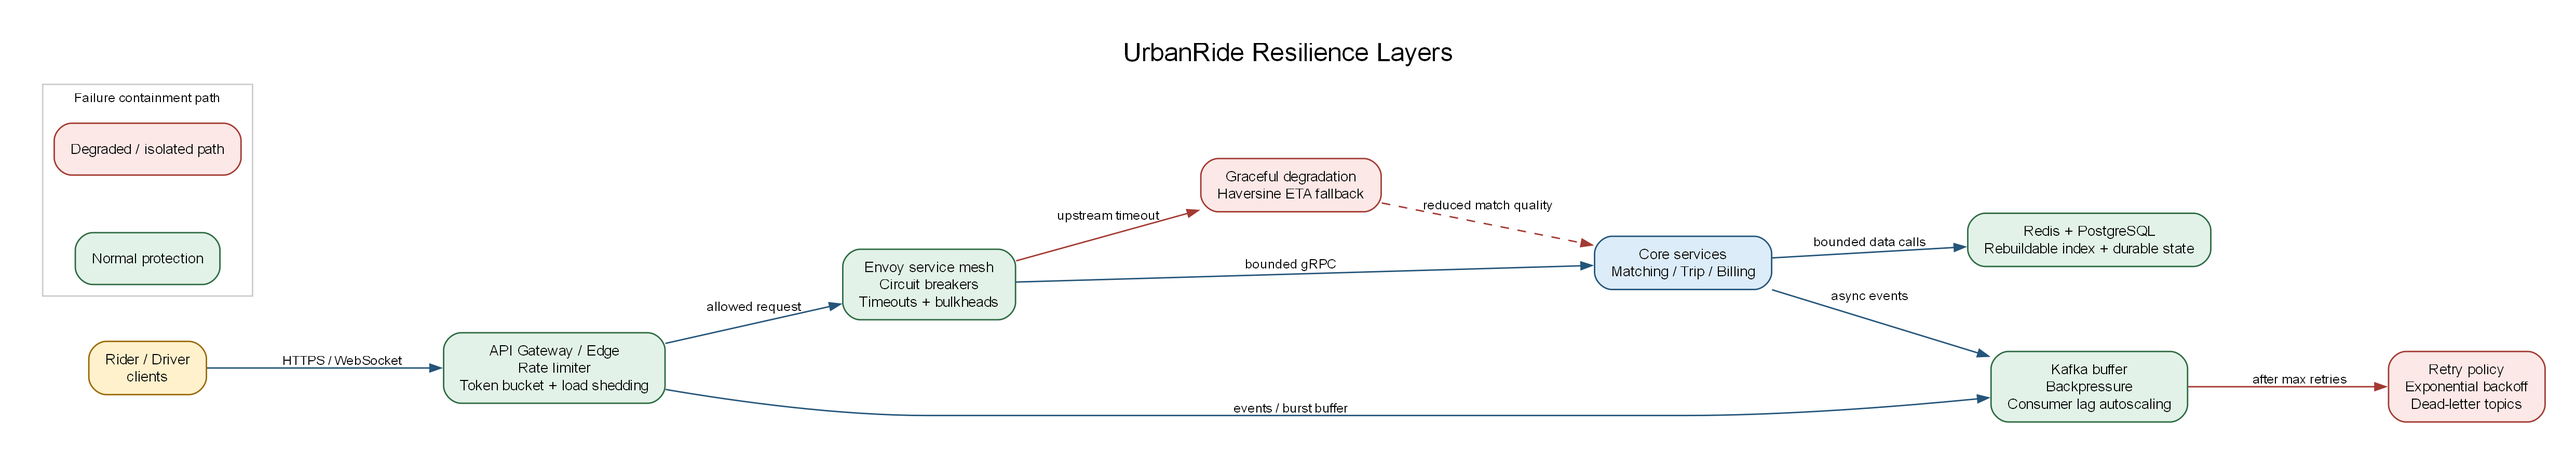
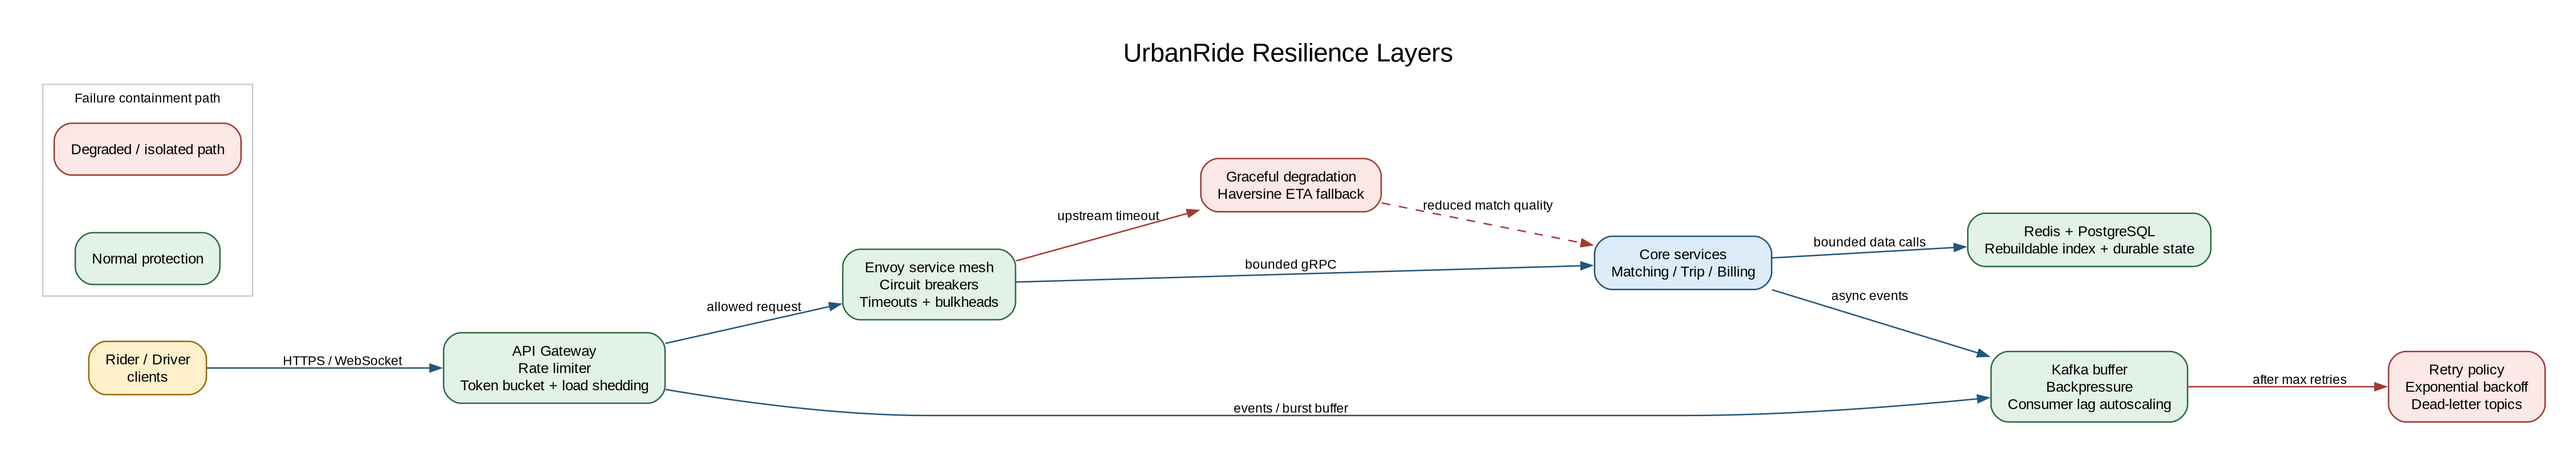
M1 consistency pass: render missing diagrams, enforce canonical names, fix SMS contradiction, draft references

diff --git a/add/06-data-design.md b/add/06-data-design.md
@@ -21,7 +21,7 @@
 <!-- Which services are CP, which are AP, and why.
      Cite Uber precedent: Ringpop is AP; surge favours freshness over consistency. -->
 
-Storage is selected per bounded context rather than imposed uniformly. Trip Management and Billing are CP: they prefer a clear failure during a partition to two conflicting authoritative records or a double charge. Location Ingestion and candidate matching are AP: a slightly stale driver position is acceptable because the next GPS ping arrives within 4 seconds, while refusing all matching during a brief inconsistency would harm availability. Surge Pricing also favours AP because freshness is more useful than a perfectly consistent multiplier. This follows Uber's documented precedent: Ringpop is AP, and surge pricing explicitly favours freshness and availability over consistency.
+Storage is selected per bounded context rather than imposed uniformly. Trip Management Service and Billing Service are CP: they prefer a clear failure during a partition to two conflicting authoritative records or a double charge. Location Ingestion Service and candidate matching are AP: a slightly stale driver position is acceptable because the next GPS ping arrives within 4 seconds, while refusing all matching during a brief inconsistency would harm availability. Surge Pricing Service also favours AP because freshness is more useful than a perfectly consistent multiplier. This follows Uber's documented precedent: Ringpop is AP, and surge pricing explicitly favours freshness and availability over consistency.
 
 ### 6.3 Storage tiering strategy
 
@@ -49,7 +49,7 @@ Partition-drop is preferable to CDC for archival because completed trips are imm
      hybrid choice; booking saga steps + compensations; pivot transaction;
      idempotency on trip_uuid -->
 
-Each service owns its database, so one ACID transaction cannot cover a booking. We use orchestration for the booking Saga because Trip Management must expose the current state and coordinate real compensations. Downstream reactions such as analytics, receipts, and driver earnings are choreographed from `TripCompleted` events. Every participant is idempotent and uses `trip_uuid` as its idempotency key; retries and duplicate events therefore become no-ops.
+Each service owns its database, so one ACID transaction cannot cover a booking. We use orchestration for the booking Saga because Trip Management Service must expose the current state and coordinate real compensations. Downstream reactions such as analytics, receipts, and driver earnings are choreographed from `TripCompleted` events. Every participant is idempotent and uses `trip_uuid` as its idempotency key; retries and duplicate events therefore become no-ops.
 
 | # | Step | Service | Compensation on failure |
 |---|---|---|---|
@@ -66,13 +66,13 @@ Step 3 is the pivot transaction. Once authorisation succeeds, the workflow moves
 <!-- Atomic Redis SET NX rather than a DB row lock; loser re-queries.
      This is how lock contention is designed out. -->
 
-The geo-index is only a candidate source, not a reservation system. Assignment uses an atomic Redis compare-and-set: `SET driver:{id}:assignment {trip_uuid} NX EX 30`. Only one simultaneous request wins. The loser discards that candidate, re-queries, and tries the next driver. This removes database row-lock contention from the hot path while Trip Management remains the authoritative record of the ride.
+The geo-index is only a candidate source, not a reservation system. Assignment uses an atomic Redis compare-and-set: `SET driver:{id}:assignment {trip_uuid} NX EX 30`. Only one simultaneous request wins. The loser discards that candidate, re-queries, and tries the next driver. This removes database row-lock contention from the hot path while Trip Management Service remains the authoritative record of the ride.
 
 ### 6.6 Surge quote pinning
 
 <!-- 60-second pinned quote so displayed fare = charged fare -->
 
-Surge is eventually consistent, so the live multiplier may change between fare estimation and confirmation. Fare estimation therefore creates a `quote_id` containing the base fare and multiplier, stores it in Redis with a 60-second TTL, and returns it to the rider. The booking request carries that ID, and Billing charges the pinned multiplier. An expired quote must be re-quoted before confirmation. This gives the rider price certainty while bounding our exposure to adverse surge movement.
+Surge is eventually consistent, so the live multiplier may change between fare estimation and confirmation. Fare estimation therefore creates a `quote_id` containing the base fare and multiplier, stores it in Redis with a 60-second TTL, and returns it to the rider. The booking request carries that ID, and the Billing Service charges the pinned multiplier. An expired quote must be re-quoted before confirmation. This gives the rider price certainty while bounding our exposure to adverse surge movement.
 
 ---
 
@@ -88,7 +88,7 @@ Surge is eventually consistent, so the live multiplier may change between fare e
 
 ![Booking saga with compensations](../diagrams/saga-01-booking.png)
 
-**Figure 6 - Booking Saga and compensating transactions.** Trip Management orchestrates the booking steps; failed reservations or payment authorisation invoke the listed compensations, with payment authorisation marked as the pivot.
+**Figure 6 - Booking Saga and compensating transactions.** Trip Management Service orchestrates the booking steps; failed reservations or payment authorisation invoke the listed compensations, with payment authorisation marked as the pivot.
 
 <!-- DIAGRAM 6 | OWNER: M3 | FILE: diagrams/saga-01-booking.png
      Happy path across services plus compensations on failure.

diff --git a/add/11-references.md b/add/11-references.md
@@ -2,26 +2,81 @@
 
 <!-- OWNER: M5 | SOURCE: Brief §11 -->
 <!-- Use a consistent citation style throughout. -->
+<!-- Drafted by M1 during the consistency pass to unblock assembly.
+     M5: please open each URL and confirm it resolves before submission. -->
 
-**Uber**
+**Uber Engineering**
 
-1. [[ Real-time Data Infrastructure at Uber - arXiv 2104.00087 ]]
-2. [[ H3 geospatial indexing - h3geo.org ]]
-3. [[ How Uber Scales Their Real-time Market Platform - High Scalability ]]
-4. [[ Schemaless / Docstore blog series - uber.com/blog ]]
-5. [[ Cadence workflow orchestration ]]
+1. Fu, Y. and Soman, C. (2021) *Real-time Data Infrastructure at Uber*. arXiv:2104.00087.
+   Available at: https://arxiv.org/abs/2104.00087 — source for the Kafka and Flink architecture,
+   the surge pricing pipeline, the Storm-versus-Flink backpressure recovery comparison, and the
+   documented decision to favour freshness over consistency in surge computation.
+2. Uber Technologies (2018) *H3: A Hexagonal Hierarchical Geospatial Indexing System*.
+   Available at: https://h3geo.org and https://github.com/uber/h3 — source for the resolution
+   table, K-ring expansion, and the equidistant-neighbour property of hexagonal cells.
+3. High Scalability (2015) *How Uber Scales Their Real-time Market Platform*.
+   Available at: https://highscalability.com — source for DISCO dispatch, Ringpop application-layer
+   sharding, the SWIM gossip protocol, and the treatment of driver location as disposable
+   in-memory data.
+4. Uber Engineering *Designing Schemaless* and *Docstore* blog series.
+   Available at: https://www.uber.com/en-GB/blog/engineering/ — source for the 2014 Postgres
+   capacity constraint and the Raft-coordinated leader/follower partition model.
+5. Cadence Workflow (2024) *Cadence: Fault-Tolerant Stateful Code Platform*.
+   Available at: https://github.com/cadence-workflow/cadence — source for durable trip-lifecycle
+   workflows, automatic activity retries, and Saga-style compensation support.
 
-**Grab**
+**Grab Engineering**
 
-6. [[ Pharos: Searching Nearby Drivers on Road Network at Scale ]]
-7. [[ Grab allocation and matching factors ]]
+6. Grab Engineering *Pharos: Searching Nearby Drivers on Road Network at Scale*.
+   Available at: https://engineering.grab.com — source for in-memory K-nearest search by driving
+   distance, OpenStreetMap graph partitioning by city and vehicle type, and the rejection of
+   straight-line nearest-driver matching.
+7. Grab *Inside Grab: How the Allocation System Works*.
+   Available at: https://www.grab.com/inside-grab/ — source for geohash-based candidate
+   generation, ETA-based narrowing, and the 40-plus factors weighed in final allocation.
 
-**Lyft**
+**Lyft / Service Mesh**
 
-8. [[ Lyft's Envoy: Embracing a Service Mesh ]]
+8. Klein, M. (2018) *Lyft's Envoy: Embracing a Service Mesh*. QCon New York.
+   Source for the migration from a PHP monolith to 300-plus microservices, and the observation
+   that retry, circuit-breaking, rate-limiting and timeout logic were incompletely and
+   inconsistently implemented when left to individual services.
+9. Envoy Proxy *Architecture Overview: Outlier Detection and Circuit Breaking*.
+   Available at: https://www.envoyproxy.io/docs — source for the sidecar circuit-breaker and
+   zone-aware load-balancing behaviour described in §7.1.
 
-**Patterns & cost**
+**Patterns**
 
-9. [[ Saga pattern - microservices.io ]]
-10. [[ Google Maps Platform pricing ]]
-11. [[ Spot instance cost benchmarks ]]
+10. Richardson, C. *Pattern: Saga*. microservices.io.
+    Available at: https://microservices.io/patterns/data/saga.html — source for orchestration
+    versus choreography, compensating transactions, and the pivot-transaction concept.
+11. Richardson, C. *Pattern: Database per Service*. microservices.io.
+    Available at: https://microservices.io/patterns/data/database-per-service.html — source for
+    the data-isolation position taken in §4.5.
+
+**Routing & Map Data**
+
+12. Luxen, D. and Vetter, C. *Open Source Routing Machine (OSRM)*.
+    Available at: https://project-osrm.org and https://github.com/Project-OSRM/osrm-backend —
+    source for the `table` (distance-matrix) endpoint used in §5.8 to compute many-to-one ETAs in
+    a single call.
+13. OpenStreetMap Foundation *OpenStreetMap planet and regional extracts*.
+    Available at: https://www.openstreetmap.org and https://download.geofabrik.de — source of the
+    road-network data underlying the self-hosted `Routing Service`.
+
+**Cost & Infrastructure**
+
+14. Google *Google Maps Platform Pricing*.
+    Available at: https://mapsplatform.google.com/pricing/ — source for Routes, Geocoding and
+    Dynamic Maps rates, and for the Route Matrix per-element billing model that produces the
+    ~64 LKR/ride figure in §8.2. Rates as published and checked 13 September 2026.
+15. Amazon Web Services *AWS Pricing — Asia Pacific (Mumbai) ap-south-1*.
+    Available at: https://aws.amazon.com/pricing/ — basis for every instance, storage and egress
+    figure in §8.3. Checked 13 September 2026.
+16. Central Bank of Sri Lanka *Daily Indicative Exchange Rates*.
+    Available at: https://www.cbsl.gov.lk — source for the 328 LKR/USD working rate recorded in
+    §8.1 and Appendix A.
+17. PostgreSQL Global Development Group *PostgreSQL Documentation: Table Partitioning*.
+    Available at: https://www.postgresql.org/docs/current/ddl-partitioning.html — source for the
+    partition-drop archival mechanism in §6.3, and for why `DROP` on a partition is a metadata
+    operation rather than a row-wise delete.

diff --git a/add/05-performance-latency.md b/add/05-performance-latency.md
@@ -92,21 +92,21 @@ This delivers most of the allocation quality of a full road-network spatial inde
 | `trip.events.dlq` | Failed consumers | Manual / automated retry processor | 3 | 30 days |
 | `billing.events` | Billing Service | Analytics, Reconciliation | 6 | 30 days |
 
-**Partition key for `driver.location` is the H3 cell ID.** This design decision has two consequences. First, all location updates for a given geographic area land on the same partition, preserving ordering within that area. Second, stateful windowed aggregation in the Surge Pricing pipeline (which computes per-hexagon demand over a rolling time window) can run without cross-partition joins — each Flink task sees a geographically coherent stream.
+**Partition key for `driver.location` is the H3 cell ID.** This design decision has two consequences. First, all location updates for a given geographic area land on the same partition, preserving ordering within that area. Second, stateful windowed aggregation in the Surge Pricing Service pipeline (which computes per-hexagon demand over a rolling time window) can run without cross-partition joins — each Flink task sees a geographically coherent stream.
 
 A 3-broker Kafka cluster is sufficient at our scale. Uber's multi-region Kafka tooling (uReplicator, uForwarder, Chaperone) exists to handle trillions of messages across global regions — we have ~1.6 billion messages per day on a handful of topics and have no justification to operate that infrastructure.
 
 ### 5.7 Backpressure & burst absorption
 
-**The 5× spike scenario:** a major event ends (concert, stadium match), thousands of riders simultaneously request rides within minutes. Without buffering, this spike hits Location Ingestion and the Matching Engine directly, causing database lock contention, connection pool exhaustion on PostgreSQL, and cascading timeouts across dependent services.
+**The 5× spike scenario:** a major event ends (concert, stadium match), thousands of riders simultaneously request rides within minutes. Without buffering, this spike hits the Location Ingestion Service and the Matching Engine directly, causing database lock contention, connection pool exhaustion on PostgreSQL, and cascading timeouts across dependent services.
 
-**With Kafka as the ingestion buffer, the failure mode changes entirely.** Location Ingestion publishes GPS pings to `driver.location`. Producers never block — Kafka absorbs the burst. Consumer lag grows as the downstream Geo-indexer falls behind. Autoscaling adds consumer instances (triggered by consumer lag metrics, not CPU). The lag drains over the next 1–2 minutes.
+**With Kafka as the ingestion buffer, the failure mode changes entirely.** The Location Ingestion Service publishes GPS pings to `driver.location`. Producers never block — Kafka absorbs the burst. Consumer lag grows as the downstream Geo-indexer falls behind. Autoscaling adds consumer instances (triggered by consumer lag metrics, not CPU). The lag drains over the next 1–2 minutes.
 
 During this period, **the system degrades in freshness, not in availability.** Driver positions in Redis may be 15–20 seconds stale instead of 4 seconds. Ride matching continues. No requests are dropped. No services cascade. When the lag clears, freshness returns to normal automatically.
 
 This single mechanism answers two rubric requirements — burst handling and backpressure — and is the strongest argument against a direct-write architecture at this scale.
 
-### 5.8 Protecting the Routing/ETA service
+### 5.8 Protecting the Routing Service
 
 OSRM is CPU-bound, stateful (holds the full OSM road graph in memory), and sits directly on the latency-critical matching path. It is the most load-sensitive component in the system. Three defensive layers protect it, in order of value:
 

diff --git a/add/07-resiliency.md b/add/07-resiliency.md
@@ -35,7 +35,7 @@ Consumers retry failed messages with exponential backoff and a maximum attempt c
 
 <!-- Graceful degradation, timeouts everywhere, bulkheads -->
 
-Timeouts are bounded on every remote call; Matching to Routing/ETA uses a 100 ms timeout. Bulkheads give each downstream its own connection pool and worker budget, so slow Billing cannot consume Trip Management capacity. Graceful degradation uses Haversine ranking when Routing/ETA is unavailable: match quality drops, but the request path remains available. Redis location data is intentionally rebuildable, while trip and billing state remains durable in PostgreSQL.
+Timeouts are bounded on every remote call; Matching to Routing Service uses a 100 ms timeout. Bulkheads give each downstream its own connection pool and worker budget, so a slow Billing Service cannot consume Trip Management Service capacity. Graceful degradation uses Haversine ranking when Routing Service is unavailable: match quality drops, but the request path remains available. Redis location data is intentionally rebuildable, while trip and billing state remains durable in PostgreSQL.
 
 ### 7.6 Failure scenario walkthroughs
 
@@ -45,7 +45,7 @@ Timeouts are bounded on every remote call; Matching to Routing/ETA uses a 100 ms
 
 **Redis cluster failure.** New matching fails closed rather than assigning without a reservation. Multi-AZ Redis failover limits the outage, and drivers re-register their locations within four seconds after recovery. In-flight trips continue because their source of truth is PostgreSQL; new ride creation can return a clear retry response while the circuit is open.
 
-**Network partition between services.** Circuit breakers open and calls fail fast. Matching may still read its local candidate index, but Trip Management does not create a ghost trip without a durable write. The rider receives a retryable error, while already committed trips continue through their Saga retries and idempotent events.
+**Network partition between services.** Circuit breakers open and calls fail fast. Matching may still read its local candidate index, but Trip Management Service does not create a ghost trip without a durable write. The rider receives a retryable error, while already committed trips continue through their Saga retries and idempotent events.
 
 **Spot instance reclaim on connection-holding services.** WebSocket termination stays on on-demand nodes because each node holds connection state. Spot is limited to genuinely stateless REST pods, matching workers, consumers, and OSRM replicas. Deploys still drain gracefully: stop new connections, notify clients, and use jittered exponential reconnect to avoid a thundering herd.
 

diff --git a/add/03-requirements-scale.md b/add/03-requirements-scale.md
@@ -14,7 +14,7 @@ UrbanRide must support the following core capabilities:
 - **Trip lifecycle management** — a ride progresses through defined states (`Requested → Matched → DriverEnRoute → InProgress → Completed`) with compensating transitions to `Cancelled` or `PaymentFailed` on failure.
 - **Surge pricing** — per-hexagon demand multipliers are computed in near-real time and applied to fare estimates before driver dispatch.
 - **Billing and payment** — fares are calculated on trip completion and processed through a third-party payment gateway with strong consistency guarantees.
-- **Notifications** — riders and drivers receive push notifications (with SMS fallback) at key trip state transitions.
+- **Notifications** — riders and drivers receive push notifications at key trip state transitions; SMS is reserved for login OTP only (see §8.7).
 
 ### 3.2 Non-functional requirements
 

diff --git a/add/04-service-decomposition.md b/add/04-service-decomposition.md
@@ -58,7 +58,7 @@ not hidden inside another service's box.
 ### 4.3 Decomposition rationale
 
 <!-- Call out the non-obvious splits:
-     - Location Ingestion vs Driver Service (opposite write profiles)
+     - Location Ingestion Service vs Driver Service (opposite write profiles)
      - Billing isolated (separate blast radius) -->
 
 Most of the boundaries above are conventional. Three are not, and they are the ones worth
